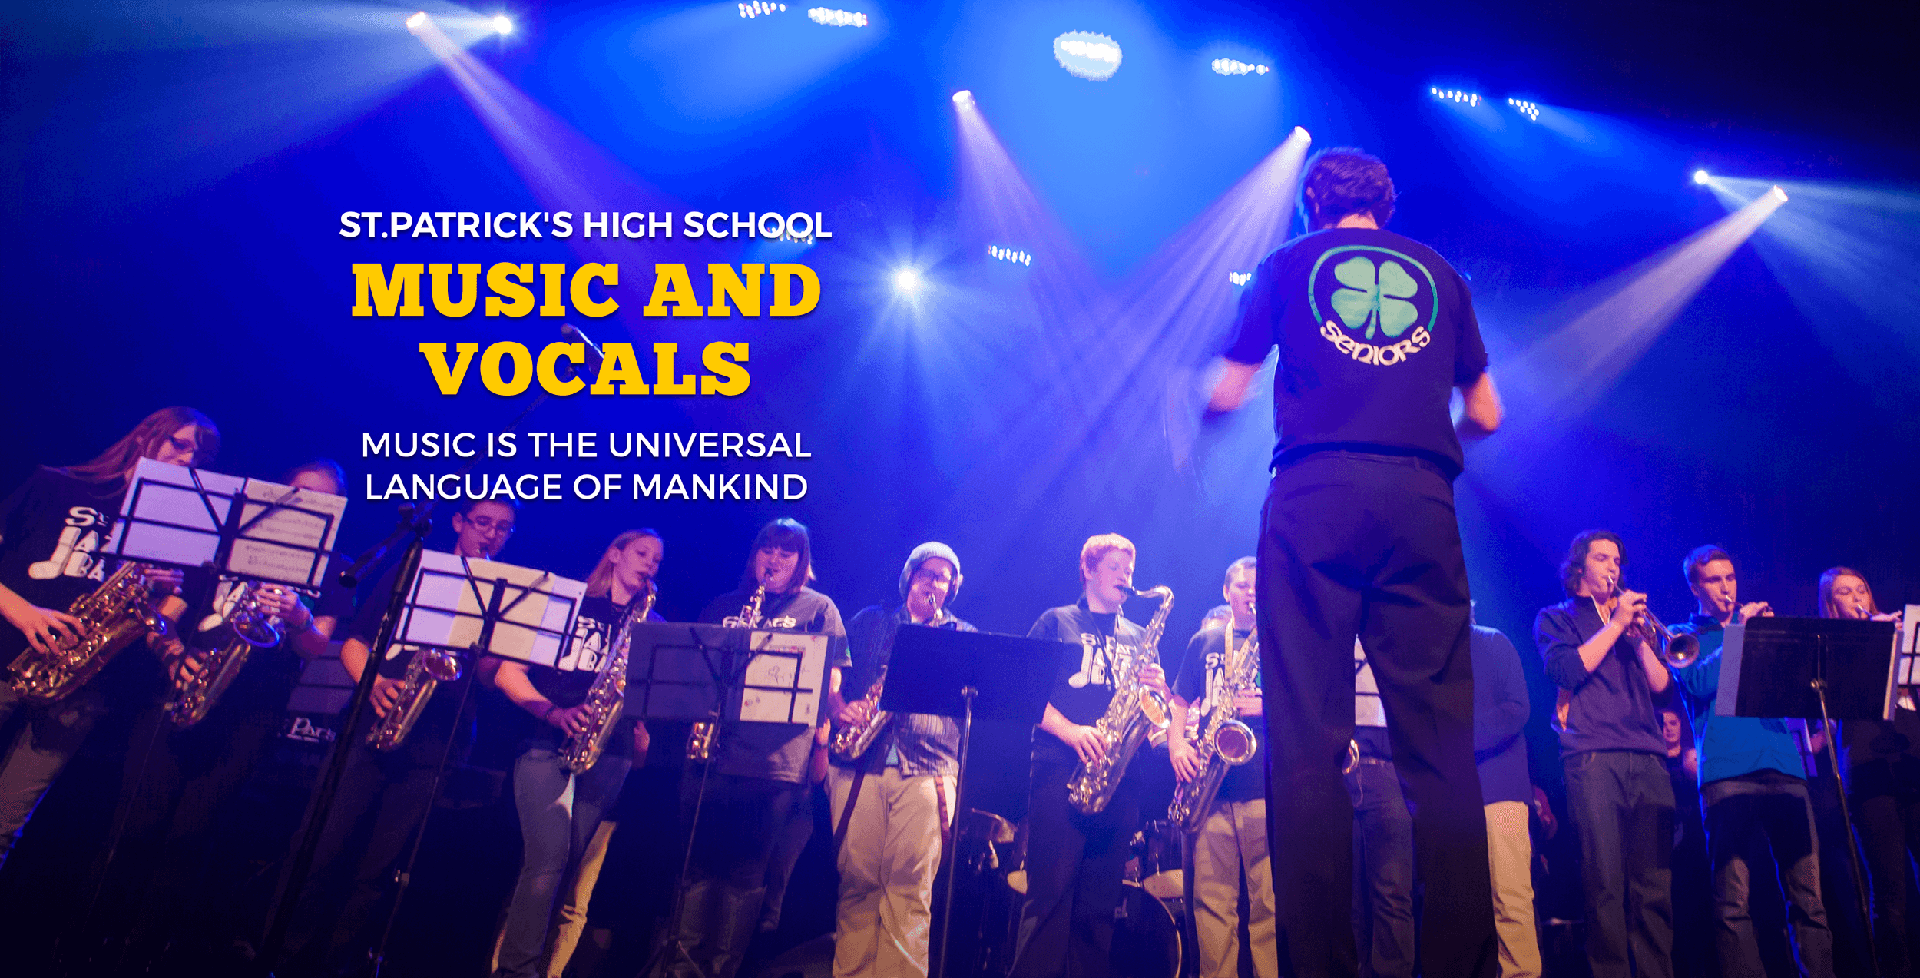
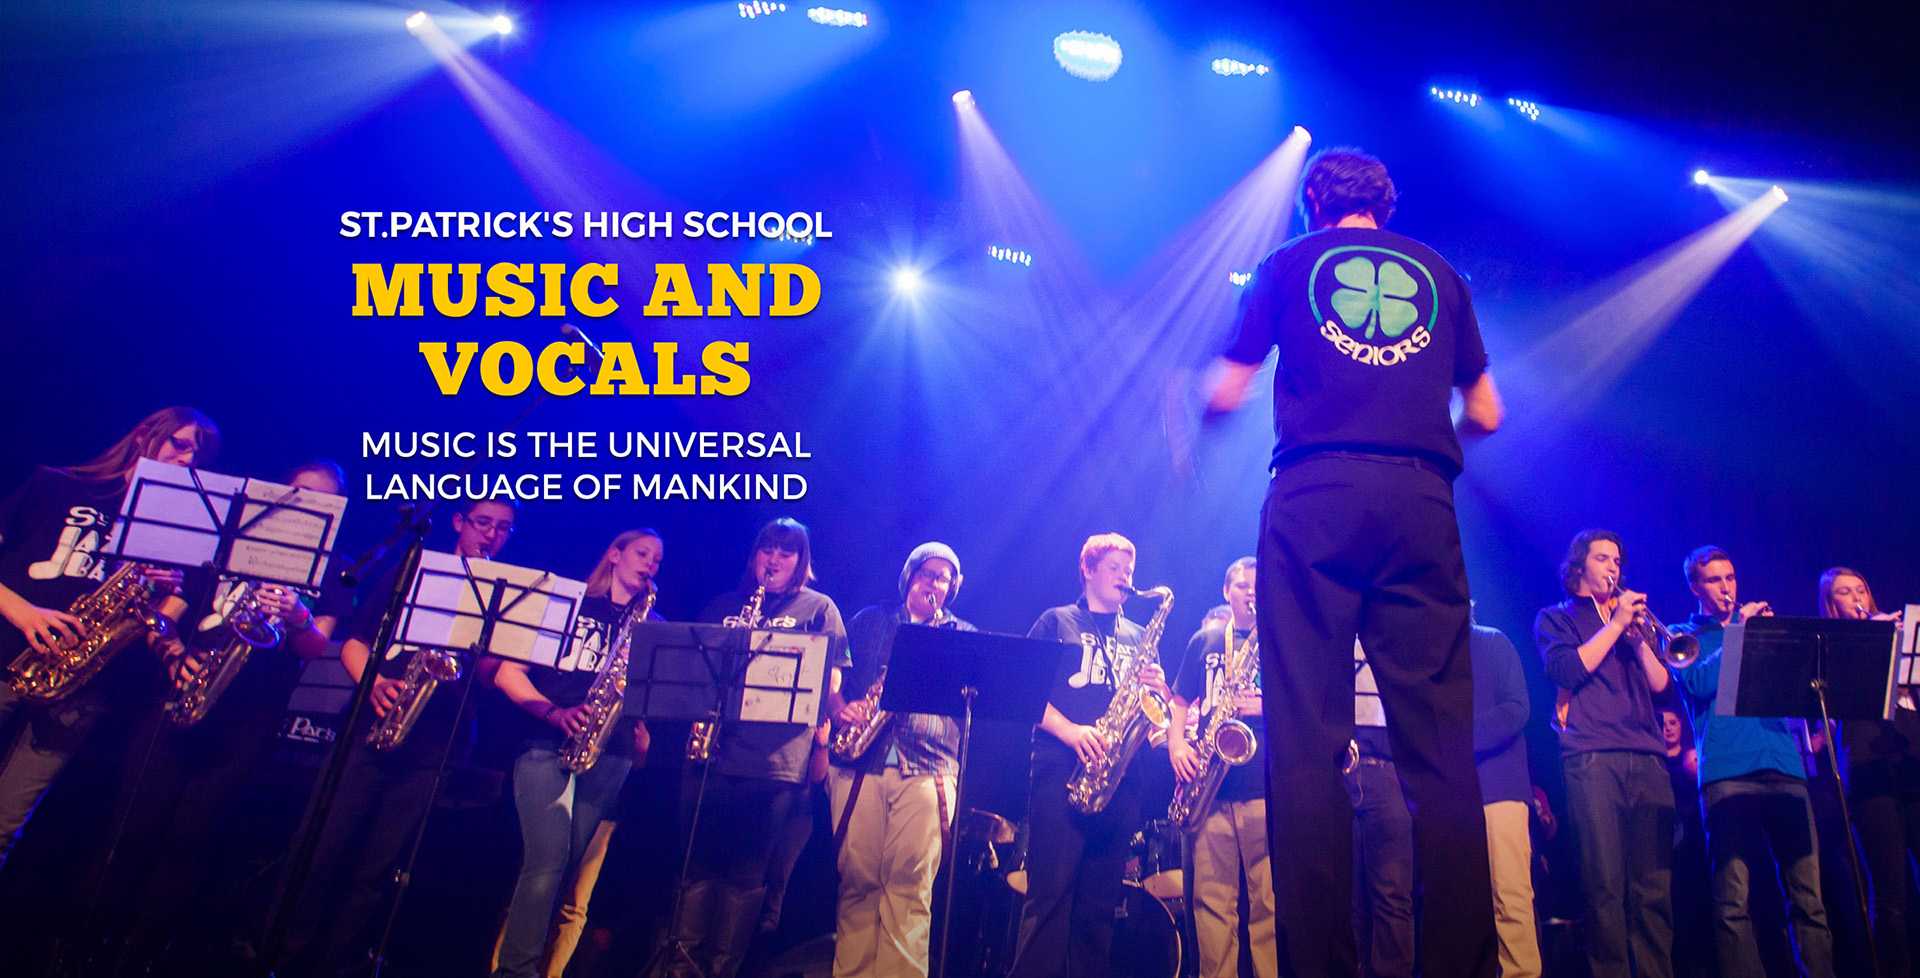
UPDATE v19.7 test image png vs jpg

diff --git a/_includes/main_slider.html b/_includes/main_slider.html
@@ -27,7 +27,7 @@
                         </li>
                         <li data-thumb-alt="" style="width: 602px; margin-right: 0px; float: left; display: block;"
                             class="">
-                            <img src="assets/img/slider/slide_3.jpg" draggable="false">
+                            <img src="assets/img/slider/slide_3.png" draggable="false">
                             <div class="captionBox">
                                 <p class="title">Music and Vocals</p>
                                 <p class="description">Come and join the St.Pat's Jazz Band!</p>
